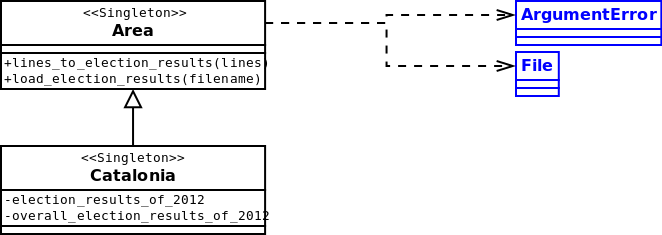
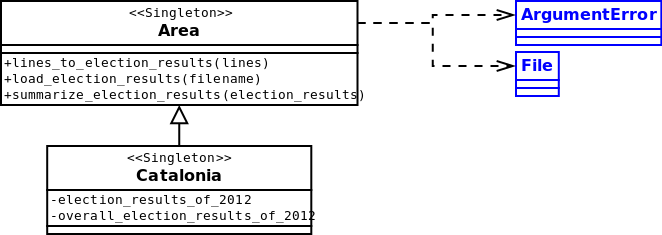
Added Area#summarize_election_results

diff --git a/lib/sapor/regional_data/area.rb b/lib/sapor/regional_data/area.rb
@@ -38,6 +38,14 @@ module Sapor
       lines_to_election_results(lines)
     end
 
+    def summarize_election_results(election_results)
+      summary = {}
+      election_results.each_value do |local_results|
+        add_local_results_to_summary(summary, local_results)
+      end
+      summary
+    end
+
     private
 
     def add_line_to_election_results(results, line)
@@ -57,6 +65,16 @@ module Sapor
                             "constituency #{constituency}.")
       end
       results[constituency][choice] = votes
+    end
+
+    def add_local_results_to_summary(summary, local_results)
+      local_results.each_pair do |choice, votes|
+        if summary.key?(choice)
+          summary[choice] += votes
+        else
+          summary[choice] = votes
+        end
+      end
     end
   end
 end

diff --git a/spec/unit/area_spec.rb b/spec/unit/area_spec.rb
@@ -96,3 +96,20 @@ describe Sapor::Area, '#lines_to_election_results' do
                                  "constituency #{NORTH}.")
   end
 end
+
+describe Sapor::Area, '#summarize_election_results' do
+  it 'summarizes one result to one result' do
+    area = Sapor::Area.instance
+    election_results = area.lines_to_election_results(NORTH_RED_LINE)
+    summary = area.summarize_election_results(election_results)
+    expect(summary[RED]).to eq(5)
+  end
+
+  it 'summarizes results of same choice in two constituencies' do
+    area = Sapor::Area.instance
+    lines = [NORTH_RED_LINE, SOUTH_RED_LINE].join("\n")
+    election_results = area.lines_to_election_results(lines)
+    summary = area.summarize_election_results(election_results)
+    expect(summary[RED]).to eq(12)
+  end
+end
